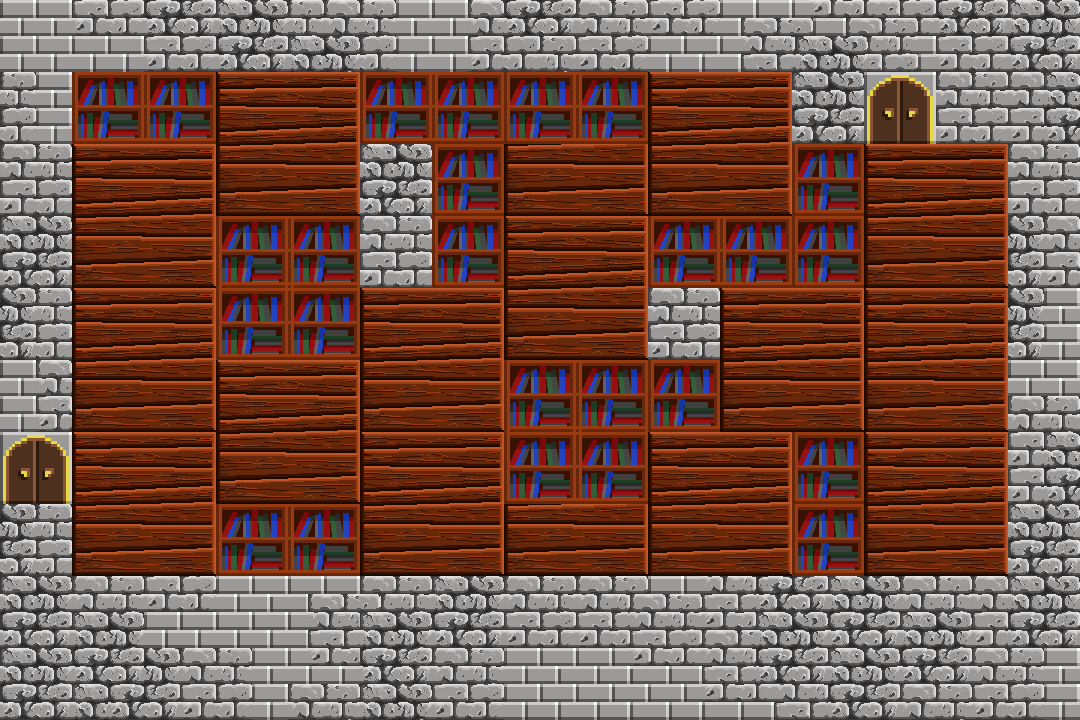
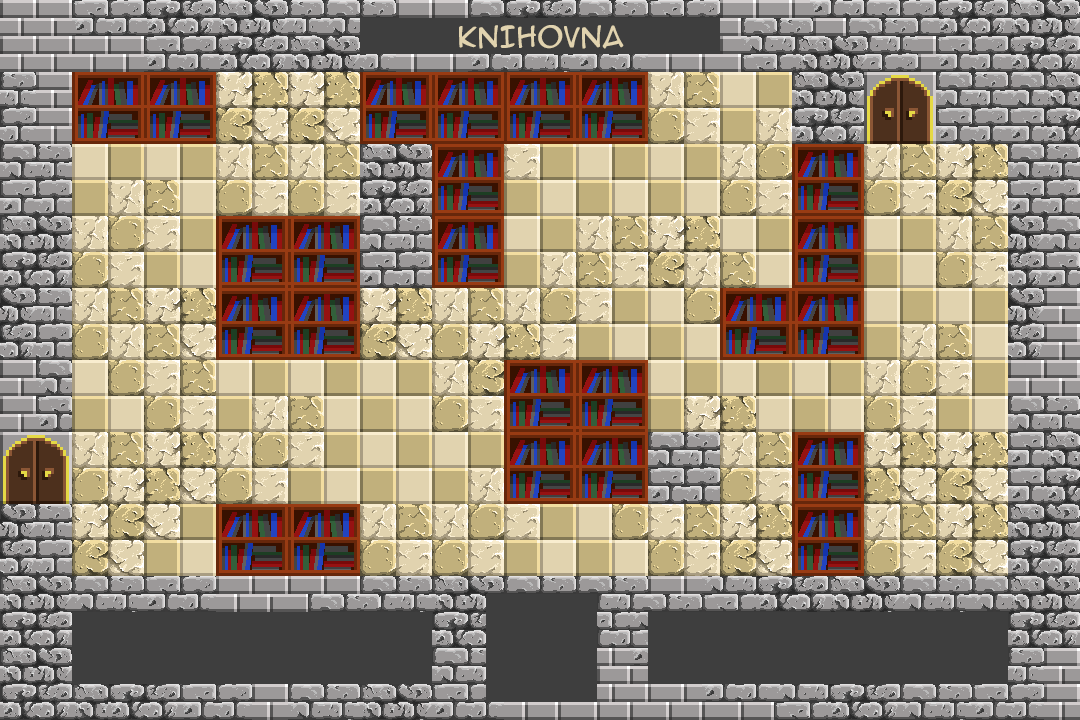
změna obrázků - přejmenování a úprava

diff --git a/src/hra/mistnost.js b/src/hra/mistnost.js
@@ -24,7 +24,7 @@ export default {
             ]
         },
         {
-            pozadi: 'kuchyne_box',
+            pozadi: 'kuchyne',
             pozicePanacka:{
                 x: 1,
                 y: 4
@@ -48,7 +48,7 @@ export default {
             ]
         },
         {
-            pozadi: 'knihovna2_box',
+            pozadi: 'knihovna',
             pozicePanacka:{
                 x: 1,
                 y: 6
@@ -63,16 +63,16 @@ export default {
                 [1, 1, 1, 1, 1, 1, 1, 1, 1, 1, 1, 1, 1, 1, 1],
                 [1, 1, 1, 0, 0, 1, 1, 1, 1, 0, 3, 1, 2, 1, 1],
                 [1, 0, 0, 0, 0, 1, 1, 0, 0, 3, 1, 1, 0, 0, 1],
-                [1, 0, 0, 1, 1, 1, 1, 0, 0, 1, 1, 1, 0, 0, 1],
-                [1, 0, 0, 1, 1, 0, 0, 0, 0, 1, 0, 0, 0, 0, 1],
-                [1, 0, 0, 0, 0, 0, 0, 1, 1, 1, 0, 0, 0, 0, 1],
-                [1, 0, 0, 0, 0, 0, 0, 1, 1, 0, 0, 1, 0, 0, 1],
+                [1, 0, 0, 1, 1, 1, 1, 0, 0, 0, 3, 1, 0, 0, 1],
+                [1, 0, 0, 1, 1, 0, 0, 0, 0, 0, 1, 1, 0, 0, 1],
+                [1, 0, 0, 0, 0, 0, 0, 1, 1, 0, 0, 0, 0, 0, 1],
+                [1, 0, 0, 0, 0, 0, 0, 1, 1, 1, 0, 1, 0, 0, 1],
                 [1, 0, 0, 1, 1, 0, 0, 0, 0, 0, 0, 1, 0, 0, 1],
                 [1, 1, 1, 1, 1, 1, 1, 1, 1, 1, 1, 1, 1, 1, 1]
             ]
         },
         {
-            pozadi: 'posilovna_box',
+            pozadi: 'posilovna',
             pozicePanacka:{
                 x: 1,
                 y:2

diff --git a/src/views/Uvodka.vue b/src/views/Uvodka.vue
@@ -2,7 +2,7 @@
 
 <div class = "pozadi">
 
-<!--<img v-bind:src="require(`./../assets/mistnosti/mistnost.png`)" alt='pozadi'> -->
+<!--<img v-bind:src="require(`./../assets/mistnosti/uvodka.png`)" alt='pozadi'> -->
 
 
 <img class="nazev" v-bind:src="require(`./../assets/nazev.png`)" alt='nazev'> 
@@ -43,7 +43,7 @@ export default {
 .pozadi {
     position: relative;
     margin: 0 auto;
-    background-image:url("./../assets/mistnosti/mistnost.png");
+    background-image:url("./../assets/mistnosti/uvodka.png");
     background-repeat: no-repeat;
     width: 1080px;
     height: 720px;
